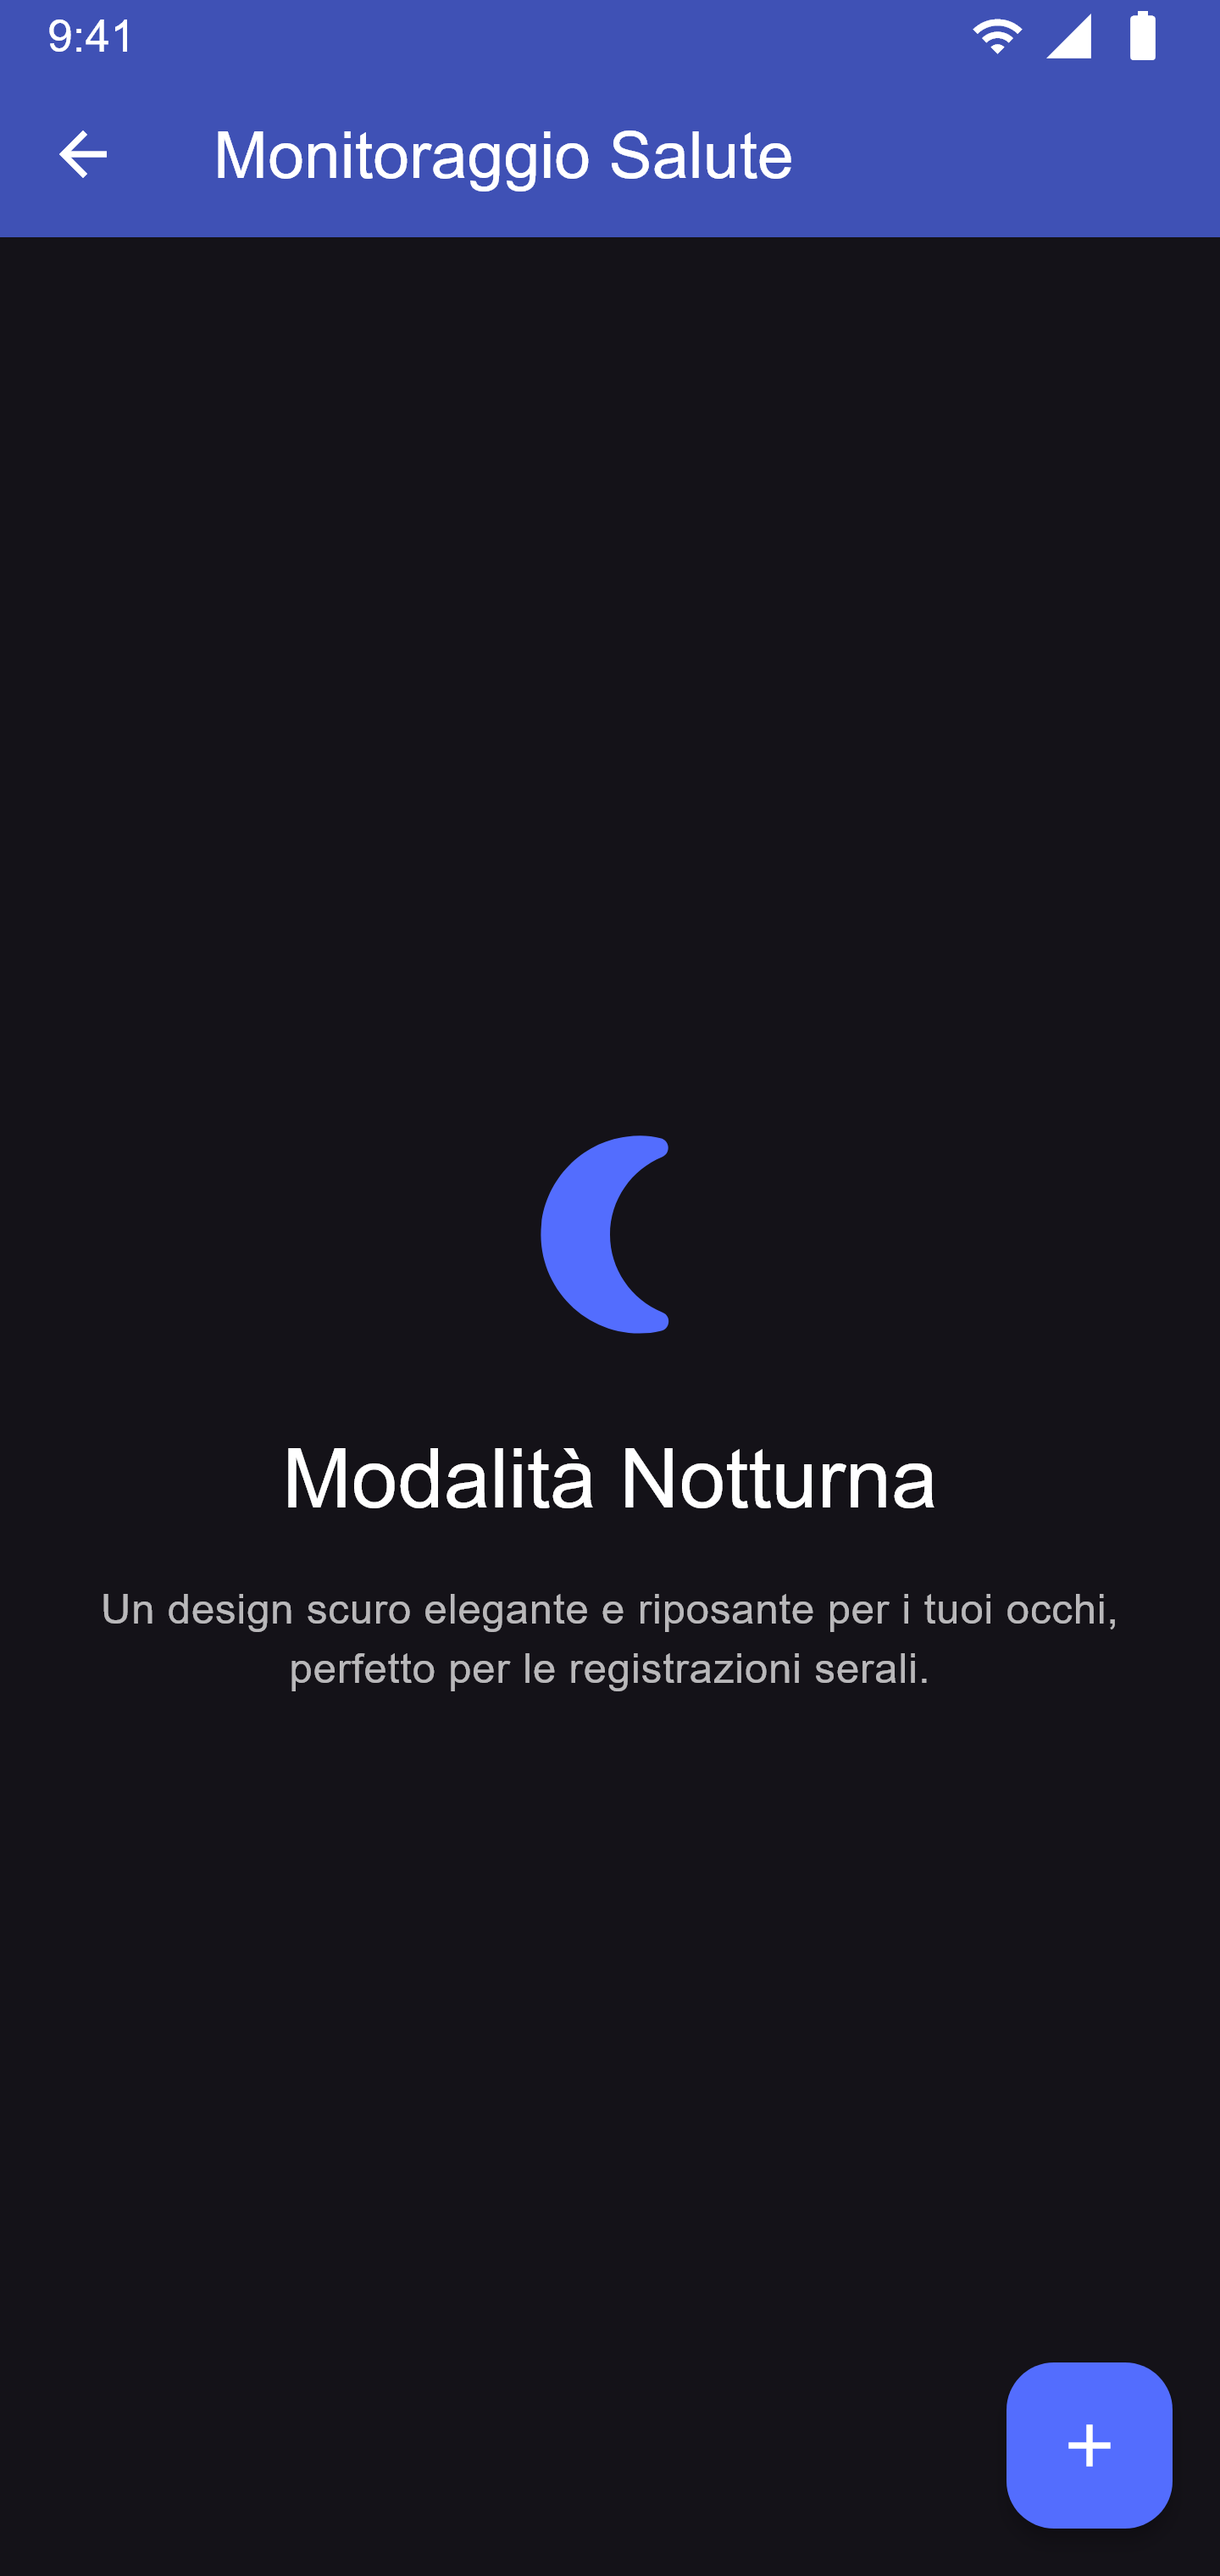
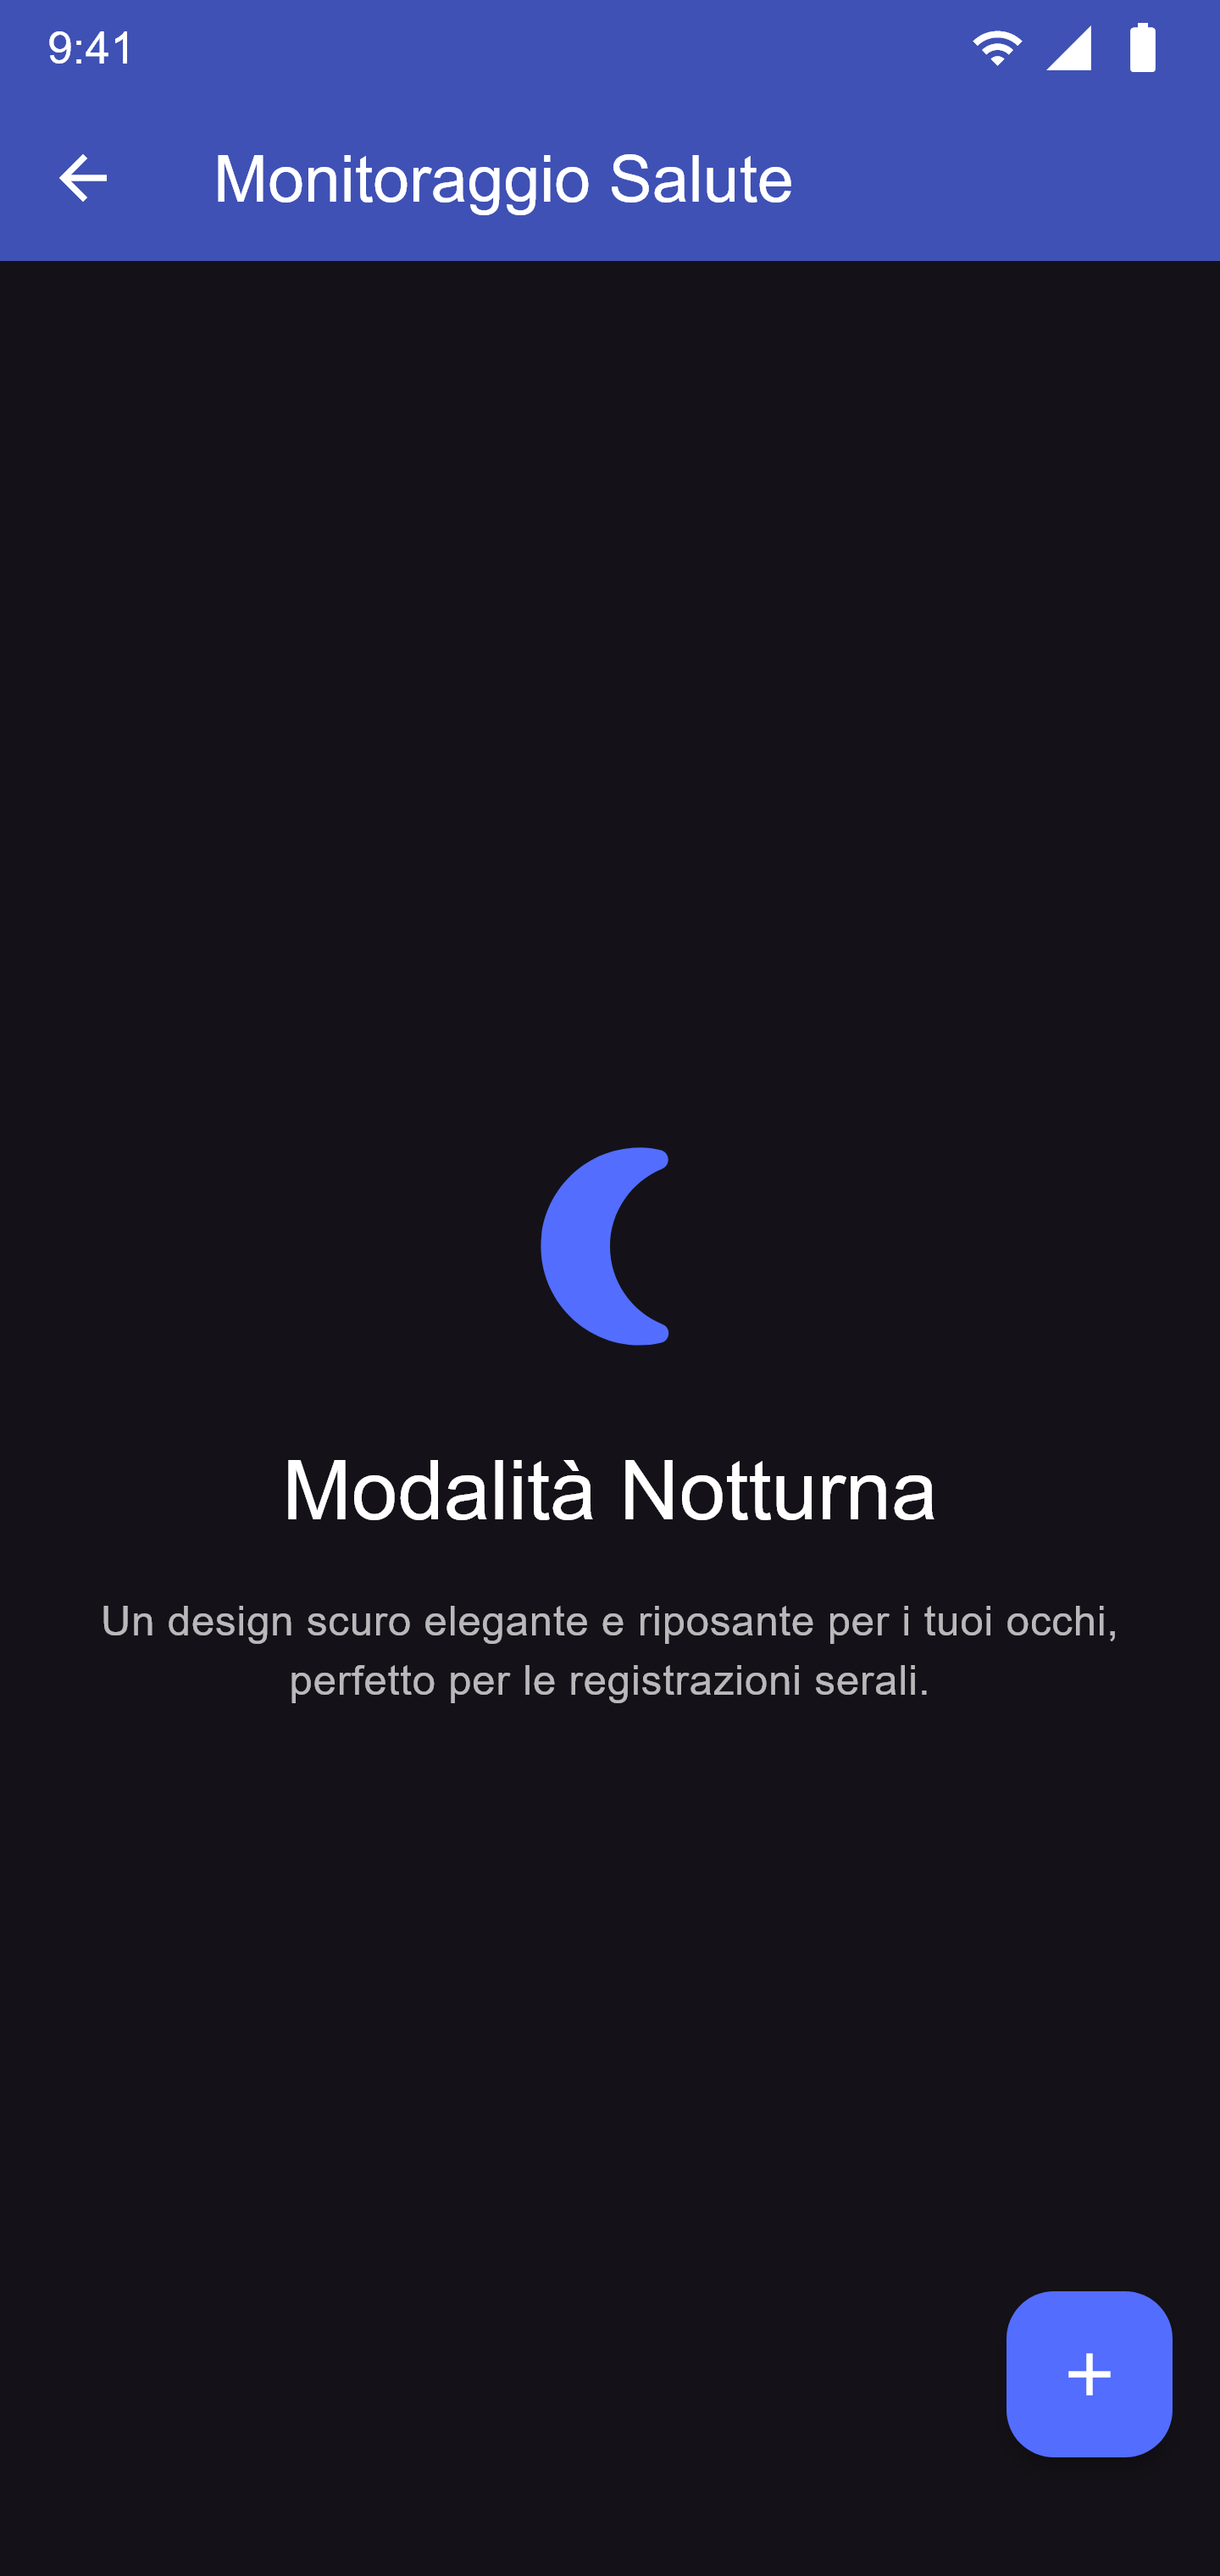
Add ScreenshotScaffold and device safeArea
Introduce ScreenshotScaffold to centralize screenshot setup (MediaQuery, safe area, status bar and RepaintBoundary) and simplify test code. Add safeArea to DeviceSpec and populate registry values so safe areas are applied per-device. Enhance FakeStatusBar with a forDevice factory and device-aware sizing/padding. Export public API from lib/store_screenshots_generator.dart and update example test to import the package entrypoint and use ScreenshotScaffold (also adjust surface/physical sizes and screenshot id to `home_screen`). Move removed/condensed screen definitions into example/screenshots_old.yaml and update example/screenshots.yaml (rename `insights_screen` -> `insights` and remove several screens). Update two example raw screenshots and delete obsolete Calculator/test placeholder.

diff --git a/example/test/raw_screenshots_test.dart b/example/test/raw_screenshots_test.dart
@@ -4,10 +4,8 @@ import 'dart:io';
 import 'package:flutter/material.dart';
 import 'package:flutter/services.dart';
 import 'package:flutter_test/flutter_test.dart';
+import 'package:store_screenshots_generator/store_screenshots_generator.dart';
 import 'package:example/main.dart';
-import 'package:store_screenshots_generator/src/capture/raw_capturer.dart';
-import 'package:store_screenshots_generator/src/config/models/device_spec.dart';
-import 'package:store_screenshots_generator/src/widgets/fake_status_bar.dart';
 
 void main() {
   setUpAll(() async {
@@ -48,12 +46,10 @@ void main() {
       defaultValue: 'iphone_15_pro',
     );
     const locale = String.fromEnvironment('LOCALE', defaultValue: 'it-IT');
-
     const includeStatusBar = bool.fromEnvironment(
       'INCLUDE_STATUS_BAR',
       defaultValue: true,
     );
-    final isIOS = deviceId.startsWith('iphone') || deviceId.startsWith('ipad');
 
     // Recuperiamo le specifiche del device
     final device = DeviceRegistry.getById(deviceId);
@@ -76,47 +72,23 @@ void main() {
     tester.view.physicalSize = resolution;
     tester.view.devicePixelRatio = pixelRatio;
 
-    print('Logical Size: ${logicalSize.width}x${logicalSize.height}');
-
     // 2. Capture Home Light
     print('Capturing Home Light Screen...');
     final rootKey = GlobalKey();
     
-    // Costruiamo la radice includendo o meno la status bar finta
-    Widget appRoot = MyApp(locale: locale);
-    if (includeStatusBar) {
-      final topPadding = isIOS ? 47.0 : 24.0;
-      appRoot = Directionality(
-        textDirection: TextDirection.ltr,
-        child: MediaQuery(
-          data: MediaQueryData(
-            size: logicalSize,
-            devicePixelRatio: pixelRatio,
-            padding: EdgeInsets.only(top: topPadding),
-          ),
-          child: Stack(
-            children: [
-              appRoot,
-              Positioned(
-                top: 0,
-                left: 0,
-                right: 0,
-                child: FakeStatusBar(
-                  isIOS: isIOS,
-                  height: topPadding,
-                  contentColor: Colors.white, // Le AppBar in main.dart hanno testo bianco
-                ),
-              ),
-            ],
-          ),
-        ),
-      );
-    }
+    // Utilizziamo lo ScreenshotScaffold che gestisce automaticamente:
+    // - MediaQuery (con safeArea corretta per il notch)
+    // - FakeStatusBar (con altezza adattiva)
+    // - RepaintBoundary
+    final appRoot = ScreenshotScaffold(
+      boundaryKey: rootKey,
+      device: device,
+      includeStatusBar: includeStatusBar,
+      statusBarContentColor: Colors.white,
+      child: MyApp(locale: locale),
+    );
 
-    await tester.pumpWidget(RepaintBoundary(
-      key: rootKey,
-      child: appRoot,
-    ));
+    await tester.pumpWidget(appRoot);
     await tester.pumpAndSettle();
 
     // Recuperiamo il contesto del Navigator per cambiare schermata

diff --git a/lib/src/widgets/screenshot_scaffold.dart b/lib/src/widgets/screenshot_scaffold.dart
@@ -1,0 +1,88 @@
+import 'package:flutter/material.dart';
+import '../config/models/device_spec.dart';
+import 'fake_status_bar.dart';
+
+/// Un wrapper che configura correttamente l'ambiente di rendering
+/// per uno screenshot, gestendo Safe Area, Status Bar e MediaQuery.
+class ScreenshotScaffold extends StatelessWidget {
+  /// Il widget dell'applicazione da renderizzare.
+  final Widget child;
+
+  /// Il dispositivo su cui si sta simulando il rendering.
+  final DeviceSpec device;
+
+  /// Se includere la status bar simulata.
+  final bool includeStatusBar;
+
+  /// Il colore del contenuto della status bar (testo e icone).
+  final Color statusBarContentColor;
+
+  /// Una chiave opzionale per il [RepaintBoundary].
+  final GlobalKey? boundaryKey;
+
+  const ScreenshotScaffold({
+    super.key,
+    required this.child,
+    required this.device,
+    this.includeStatusBar = true,
+    this.statusBarContentColor = Colors.black,
+    this.boundaryKey,
+  });
+
+  @override
+  Widget build(BuildContext context) {
+    // Calcoliamo la dimensione logica considerando il devicePixelRatio
+    final logicalSize = Size(
+      device.resolution.width / device.pixelRatio,
+      device.resolution.height / device.pixelRatio,
+    );
+    
+    // Convertiamo i safe area physical pixels in logical pixels
+    final logicalSafeArea = EdgeInsets.only(
+      left: device.safeArea.left / device.pixelRatio,
+      top: device.safeArea.top / device.pixelRatio,
+      right: device.safeArea.right / device.pixelRatio,
+      bottom: device.safeArea.bottom / device.pixelRatio,
+    );
+
+    Widget appRoot = child;
+
+    if (includeStatusBar) {
+      appRoot = Stack(
+        children: [
+          appRoot,
+          Positioned(
+            top: 0,
+            left: 0,
+            right: 0,
+            child: FakeStatusBar.forDevice(
+              device,
+              contentColor: statusBarContentColor,
+            ),
+          ),
+        ],
+      );
+    }
+
+    return Directionality(
+      textDirection: TextDirection.ltr,
+      child: MediaQuery(
+        data: MediaQueryData(
+          size: logicalSize,
+          devicePixelRatio: device.pixelRatio,
+          padding: logicalSafeArea,
+          viewPadding: logicalSafeArea,
+          viewInsets: EdgeInsets.zero,
+        ),
+        child: RepaintBoundary(
+          key: boundaryKey,
+          child: SizedBox(
+            width: logicalSize.width,
+            height: logicalSize.height,
+            child: appRoot,
+          ),
+        ),
+      ),
+    );
+  }
+}

diff --git a/lib/src/config/models/device_spec.dart b/lib/src/config/models/device_spec.dart
@@ -13,6 +13,9 @@ class DeviceSpec {
   /// Insets for the screen content inside the [frameAsset].
   final EdgeInsets framePadding;
 
+  /// Physical pixel safe area insets (to match [resolution]).
+  final EdgeInsets safeArea;
+
   const DeviceSpec({
     required this.id,
     required this.name,
@@ -21,6 +24,7 @@ class DeviceSpec {
     this.cornerRadius = 40.0,
     this.frameAsset,
     this.framePadding = EdgeInsets.zero,
+    this.safeArea = EdgeInsets.zero,
   });
 
   double get aspectRatio => resolution.width / resolution.height;
@@ -36,6 +40,7 @@ class DeviceRegistry {
       cornerRadius: 55.0,
       frameAsset: 'assets/frames/iphone_15_pro.png',
       framePadding: EdgeInsets.all(50.0),
+      safeArea: EdgeInsets.only(top: 177, bottom: 102),
     ),
     'iphone_13_pro_max': DeviceSpec(
       id: 'iphone_13_pro_max',
@@ -45,6 +50,7 @@ class DeviceRegistry {
       cornerRadius: 50.0,
       frameAsset: 'assets/frames/iphone_13_pro_max.png',
       framePadding: EdgeInsets.all(38.0),
+      safeArea: EdgeInsets.only(top: 141, bottom: 102),
     ),
     'pixel_8_pro': DeviceSpec(
       id: 'pixel_8_pro',
@@ -54,6 +60,7 @@ class DeviceRegistry {
       cornerRadius: 45.0,
       frameAsset: 'assets/frames/pixel_8_pro.png',
       framePadding: EdgeInsets.all(32.0),
+      safeArea: EdgeInsets.only(top: 112, bottom: 84),
     ),
     'pixel_4_xl': DeviceSpec(
       id: 'pixel_4_xl',
@@ -68,6 +75,7 @@ class DeviceRegistry {
         top: 120.0,
         bottom: 70.0,
       ),
+      safeArea: EdgeInsets.only(top: 112, bottom: 84),
     ),
     'ipad_pro_13': DeviceSpec(
       id: 'ipad_pro_13',
@@ -77,6 +85,7 @@ class DeviceRegistry {
       cornerRadius: 30.0,
       frameAsset: 'assets/frames/ipad_pro_13.png',
       framePadding: EdgeInsets.all(40.0),
+      safeArea: EdgeInsets.only(top: 48, bottom: 40),
     ),
   };
 

diff --git a/lib/src/widgets/fake_status_bar.dart b/lib/src/widgets/fake_status_bar.dart
@@ -1,4 +1,5 @@
 import 'package:flutter/material.dart';
+import '../config/models/device_spec.dart';
 
 /// Un widget che simula la status bar nativa (iOS o Android)
 /// per la cattura degli screenshot.
@@ -7,6 +8,7 @@ class FakeStatusBar extends StatelessWidget {
   final String timeText;
   final Color contentColor;
   final double height;
+  final DeviceSpec? deviceSpec;
 
   const FakeStatusBar({
     super.key,
@@ -14,13 +16,32 @@ class FakeStatusBar extends StatelessWidget {
     this.timeText = '9:41',
     this.contentColor = Colors.black,
     this.height = 44.0,
+    this.deviceSpec,
   });
+
+  /// Crea una status bar ottimizzata per uno specifico dispositivo.
+  factory FakeStatusBar.forDevice(
+    DeviceSpec device, {
+    Color contentColor = Colors.black,
+    String timeText = '9:41',
+  }) {
+    final logicalTop = device.safeArea.top / device.pixelRatio;
+    return FakeStatusBar(
+      isIOS: device.id.startsWith('iphone') || device.id.startsWith('ipad'),
+      timeText: timeText,
+      contentColor: contentColor,
+      height: logicalTop > 0 ? logicalTop : 44.0,
+      deviceSpec: device,
+    );
+  }
 
   @override
   Widget build(BuildContext context) {
     return Container(
       height: height,
-      padding: const EdgeInsets.symmetric(horizontal: 16.0),
+      padding: EdgeInsets.symmetric(
+        horizontal: isIOS ? 32.0 : 16.0, // Più padding su iOS per allontanarsi dai bordi/angoli
+      ),
       child: isIOS ? _buildIOSStatusBar() : _buildAndroidStatusBar(),
     );
   }

diff --git a/lib/store_screenshots_generator.dart b/lib/store_screenshots_generator.dart
@@ -1,5 +1,9 @@
-/// A Calculator.
-class Calculator {
-  /// Returns [value] plus 1.
-  int addOne(int value) => value + 1;
-}
+library;
+
+export 'src/capture/raw_capturer.dart';
+export 'src/config/models/device_spec.dart';
+export 'src/config/models/screenshot_config.dart';
+export 'src/widgets/fake_status_bar.dart';
+export 'src/widgets/screenshot_scaffold.dart';
+export 'src/registry/template_registry.dart';
+export 'src/engine/headless_runner.dart';

diff --git a/docs/USAGE.md b/docs/USAGE.md
@@ -79,46 +79,46 @@ Puoi includere o escludere una **Status Bar simulata** (che mostra l'orario 9:41
 dart run store_screenshots_generator:capture_raw --no-status-bar
 ```
 
-## 4. Gestione della Test UI e Status Bar
+## 4. Gestione della Test UI e ScreenshotScaffold
 
-Il tuo `raw_screenshots_test.dart` dovrebbe avvolgere l'app in un `RepaintBoundary` con una `Key` passata poi al metodo di cattura per isolare graficamente la tua app.
+Invece di gestire manualmente la `MediaQuery` e la `FakeStatusBar`, il tool mette a disposizione il widget `ScreenshotScaffold`. Questo widget configura automaticamente:
+- La **Safe Area** corretta in base al `deviceId` (notch, dynamic island, etc).
+- La **Status Bar simulata** con altezza adattiva.
+- Il **RepaintBoundary** necessario per la cattura.
 
-Se desideri avere la **Status Bar finta** (Opzione consigliata!), utilizza il flag di environment `INCLUDE_STATUS_BAR`:
+Esempio di utilizzo nel tuo `raw_screenshots_test.dart`:
 
 ```dart
     final rootKey = GlobalKey();
+    final device = DeviceRegistry.getById(deviceId);
     const includeStatusBar = bool.fromEnvironment('INCLUDE_STATUS_BAR', defaultValue: true);
     
-    Widget appRoot = const MyApp();
-    if (includeStatusBar) {
-      appRoot = Directionality(
-        textDirection: TextDirection.ltr,
-        child: Column(
-          children: [
-            FakeStatusBar(
-              isIOS: deviceId.startsWith('iphone') || deviceId.startsWith('ipad'),
-            ),
-            Expanded(child: appRoot),
-          ],
-        ),
-      );
-    }
+    // Lo scaffold gestisce logicamente tutto il setup del device
+    final appRoot = ScreenshotScaffold(
+      device: device,
+      includeStatusBar: includeStatusBar,
+      boundaryKey: rootKey,
+      statusBarContentColor: Colors.white, // Colore icone status bar
+      child: const MyApp(),
+    );
 
-    await tester.pumpWidget(RepaintBoundary(
-      key: rootKey,
-      child: appRoot,
-    ));
+    // Imposta la dimensione logica e fisica correttamente
+    final logicalSize = Size(device.resolution.width / device.pixelRatio, device.resolution.height / device.pixelRatio);
+    await tester.binding.setSurfaceSize(logicalSize);
+    tester.view.physicalSize = device.resolution;
+    tester.view.devicePixelRatio = device.pixelRatio;
 
+    await tester.pumpWidget(appRoot);
     await tester.pumpAndSettle();
 
     // ... navigazione ...
 
     await captureRawScreenshot(
       tester,
-      screenshotId: 'nome_screen',
+      screenshotId: 'home_screen',
       locale: locale,
       deviceId: deviceId,
-      boundaryKey: rootKey, // IMPORTANTE! Permette l'acquisizione corretta ignorando overlay
+      boundaryKey: rootKey,
     );
 ```
 
